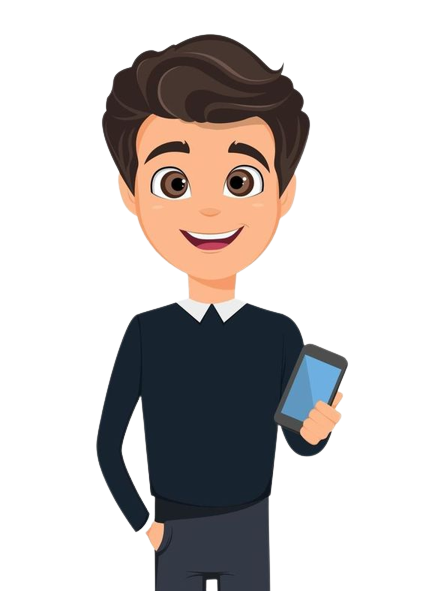
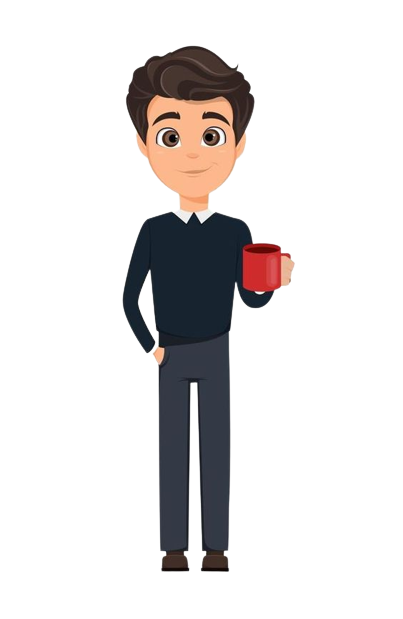
add render images

diff --git a/script.js b/script.js
@@ -90,7 +90,8 @@ function setBar (id, value) {
 
 const personLevel = document.querySelector(".person__level")
 
-let currentLevel = 24
+//stats exp
+let currentLevel = 49
 let currentExp = 0
 let needExp = 1000
 function renderExp(countExp){
@@ -194,6 +195,7 @@ function increaseGameDate() {
     personLevel.innerHTML = `Current level: ${currentLevel}`
     calculateSalary(arrayWorkItems)
     displayHeroStats(rocketLeague)
+    renderImg(currentLevel)
     setTimeout(increaseGameDate, timeoutTimer)
 }
 increaseGameDate()
@@ -534,3 +536,19 @@ function calculateSalary(array) {
     }
 }
 
+//function to render IMG
+function renderImg(level) {
+    const imgClass = document.querySelector(".character__img");
+
+    if (level >= 10 && level < 20) {
+        imgClass.src = "img/student.png";
+    } else if (level >= 20 && level < 40) {
+        imgClass.src = "img/trainee.png";
+    } else if (level >= 40 && level < 60) {
+        imgClass.src = "img/junior.png";
+    } else if (level >= 60 && level < 80) {
+        imgClass.src = "img/middle.png";
+    } else if (level >= 80) {
+        imgClass.src = "img/senior.png";
+    }
+}
